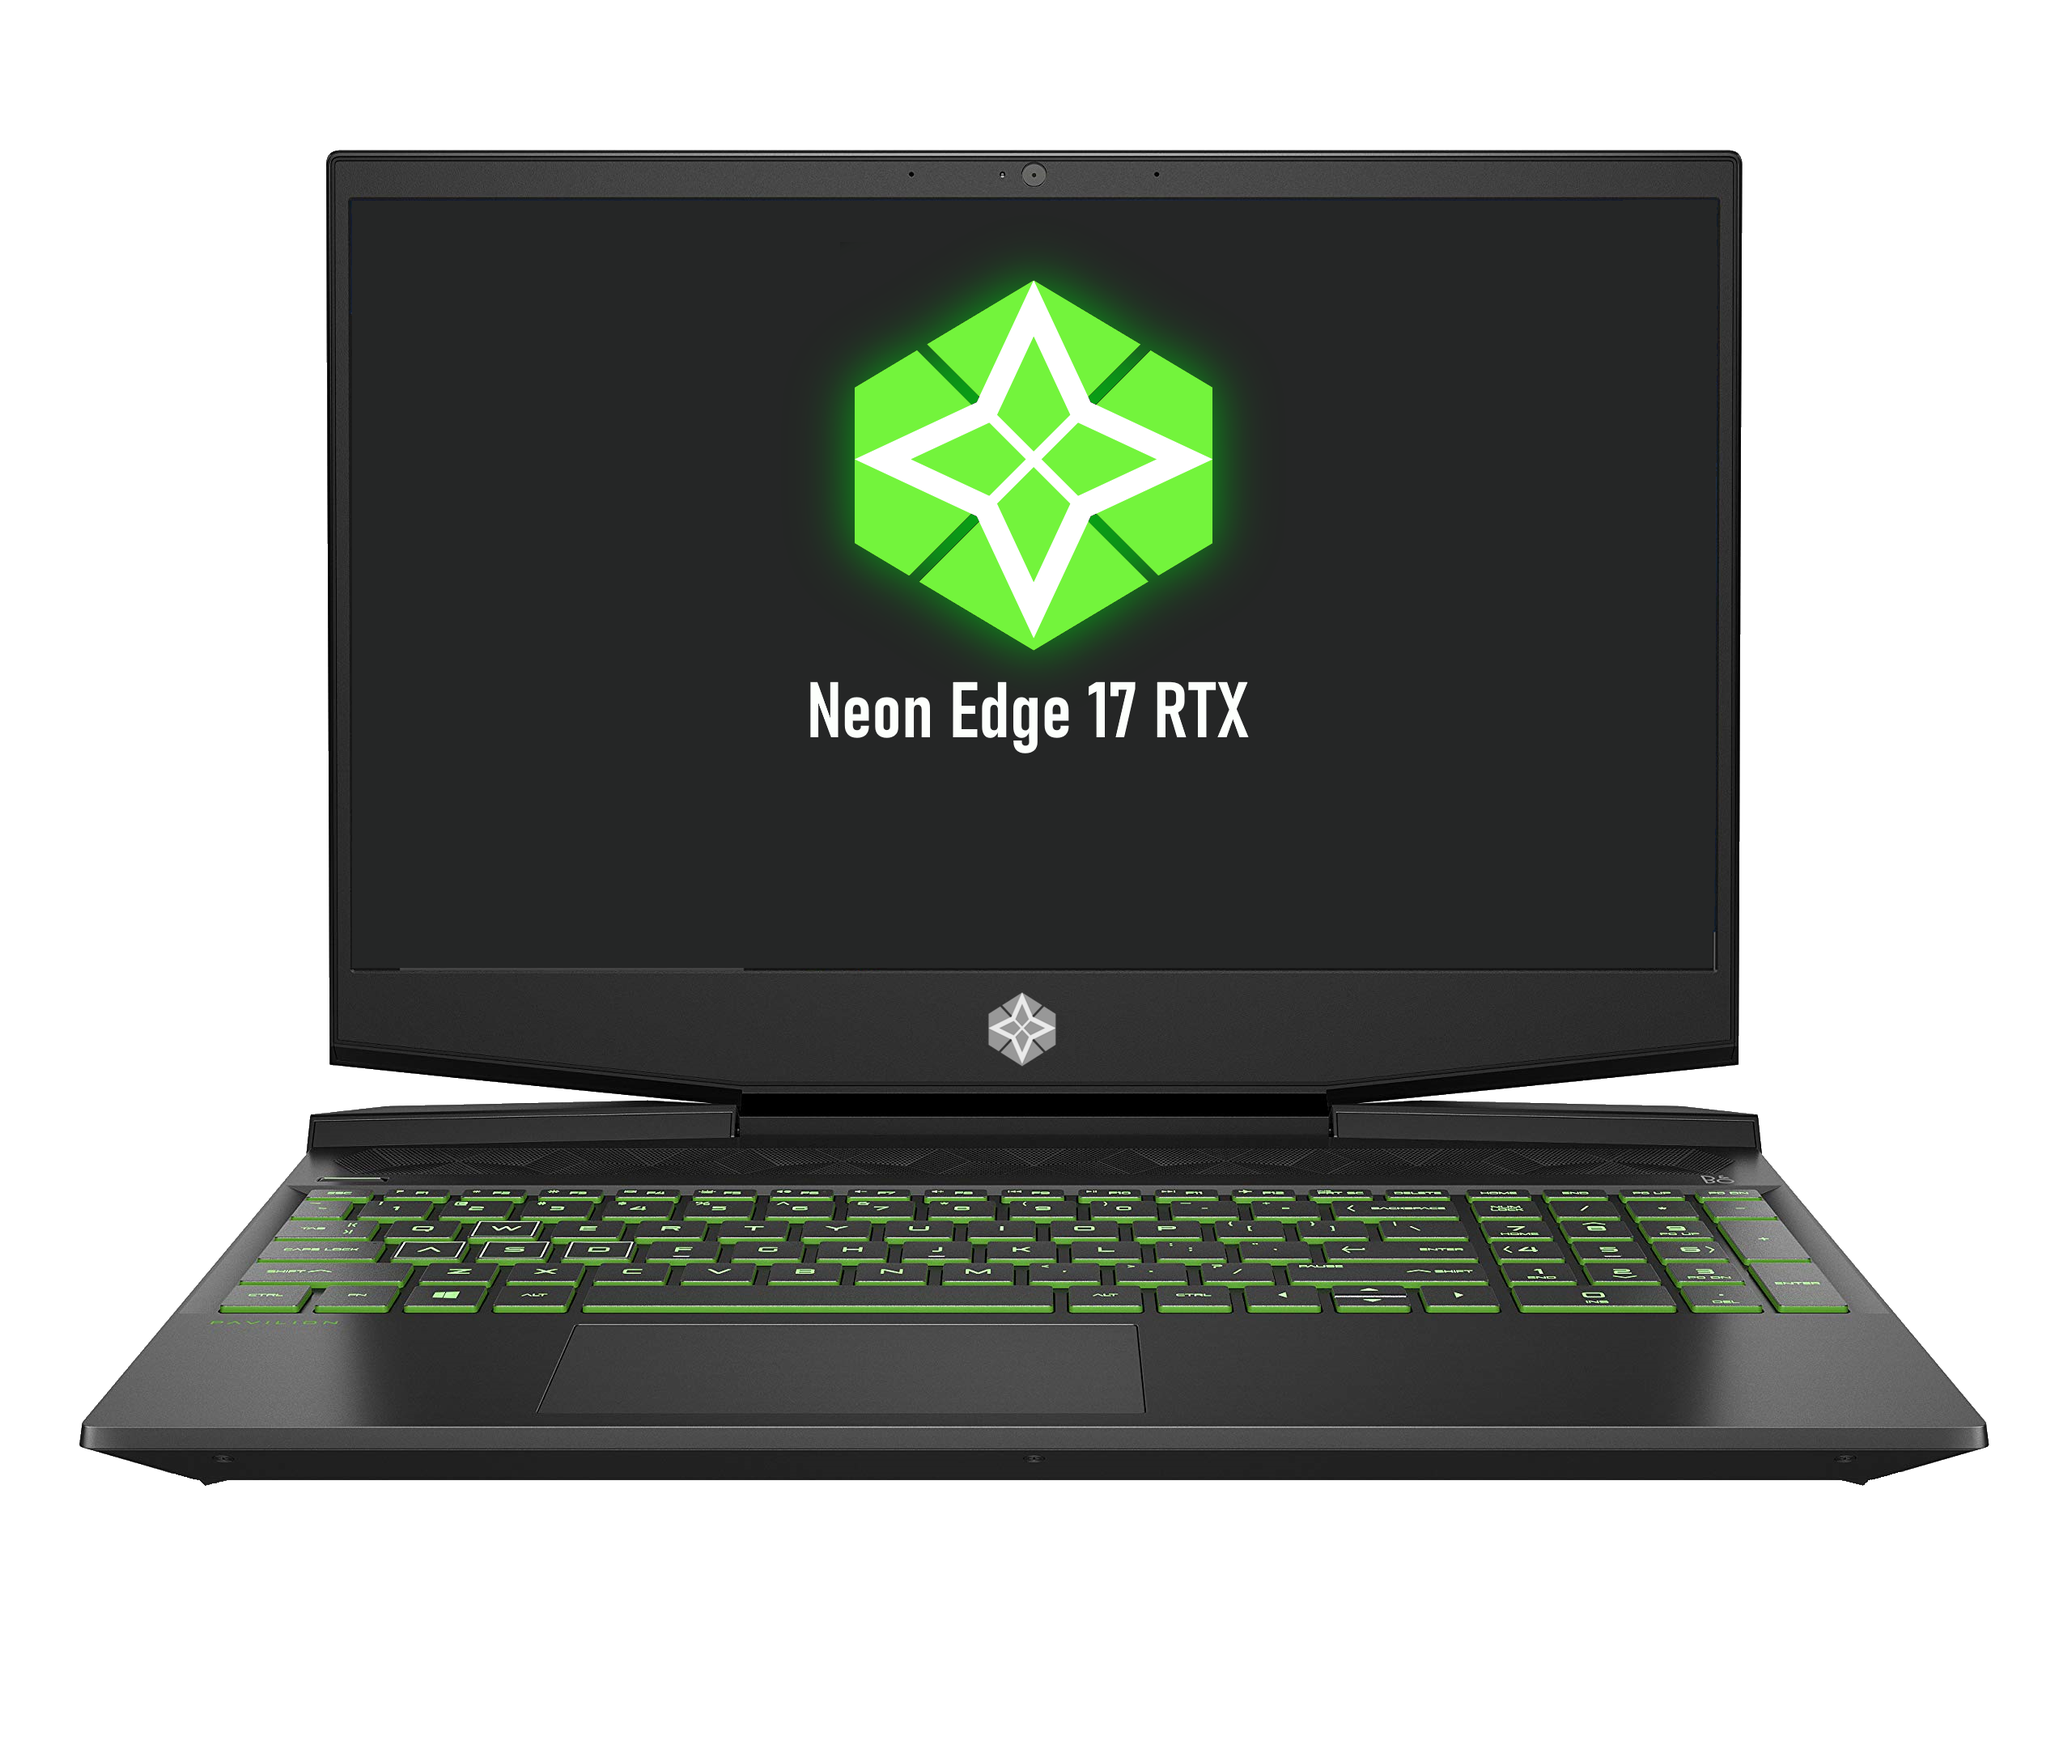
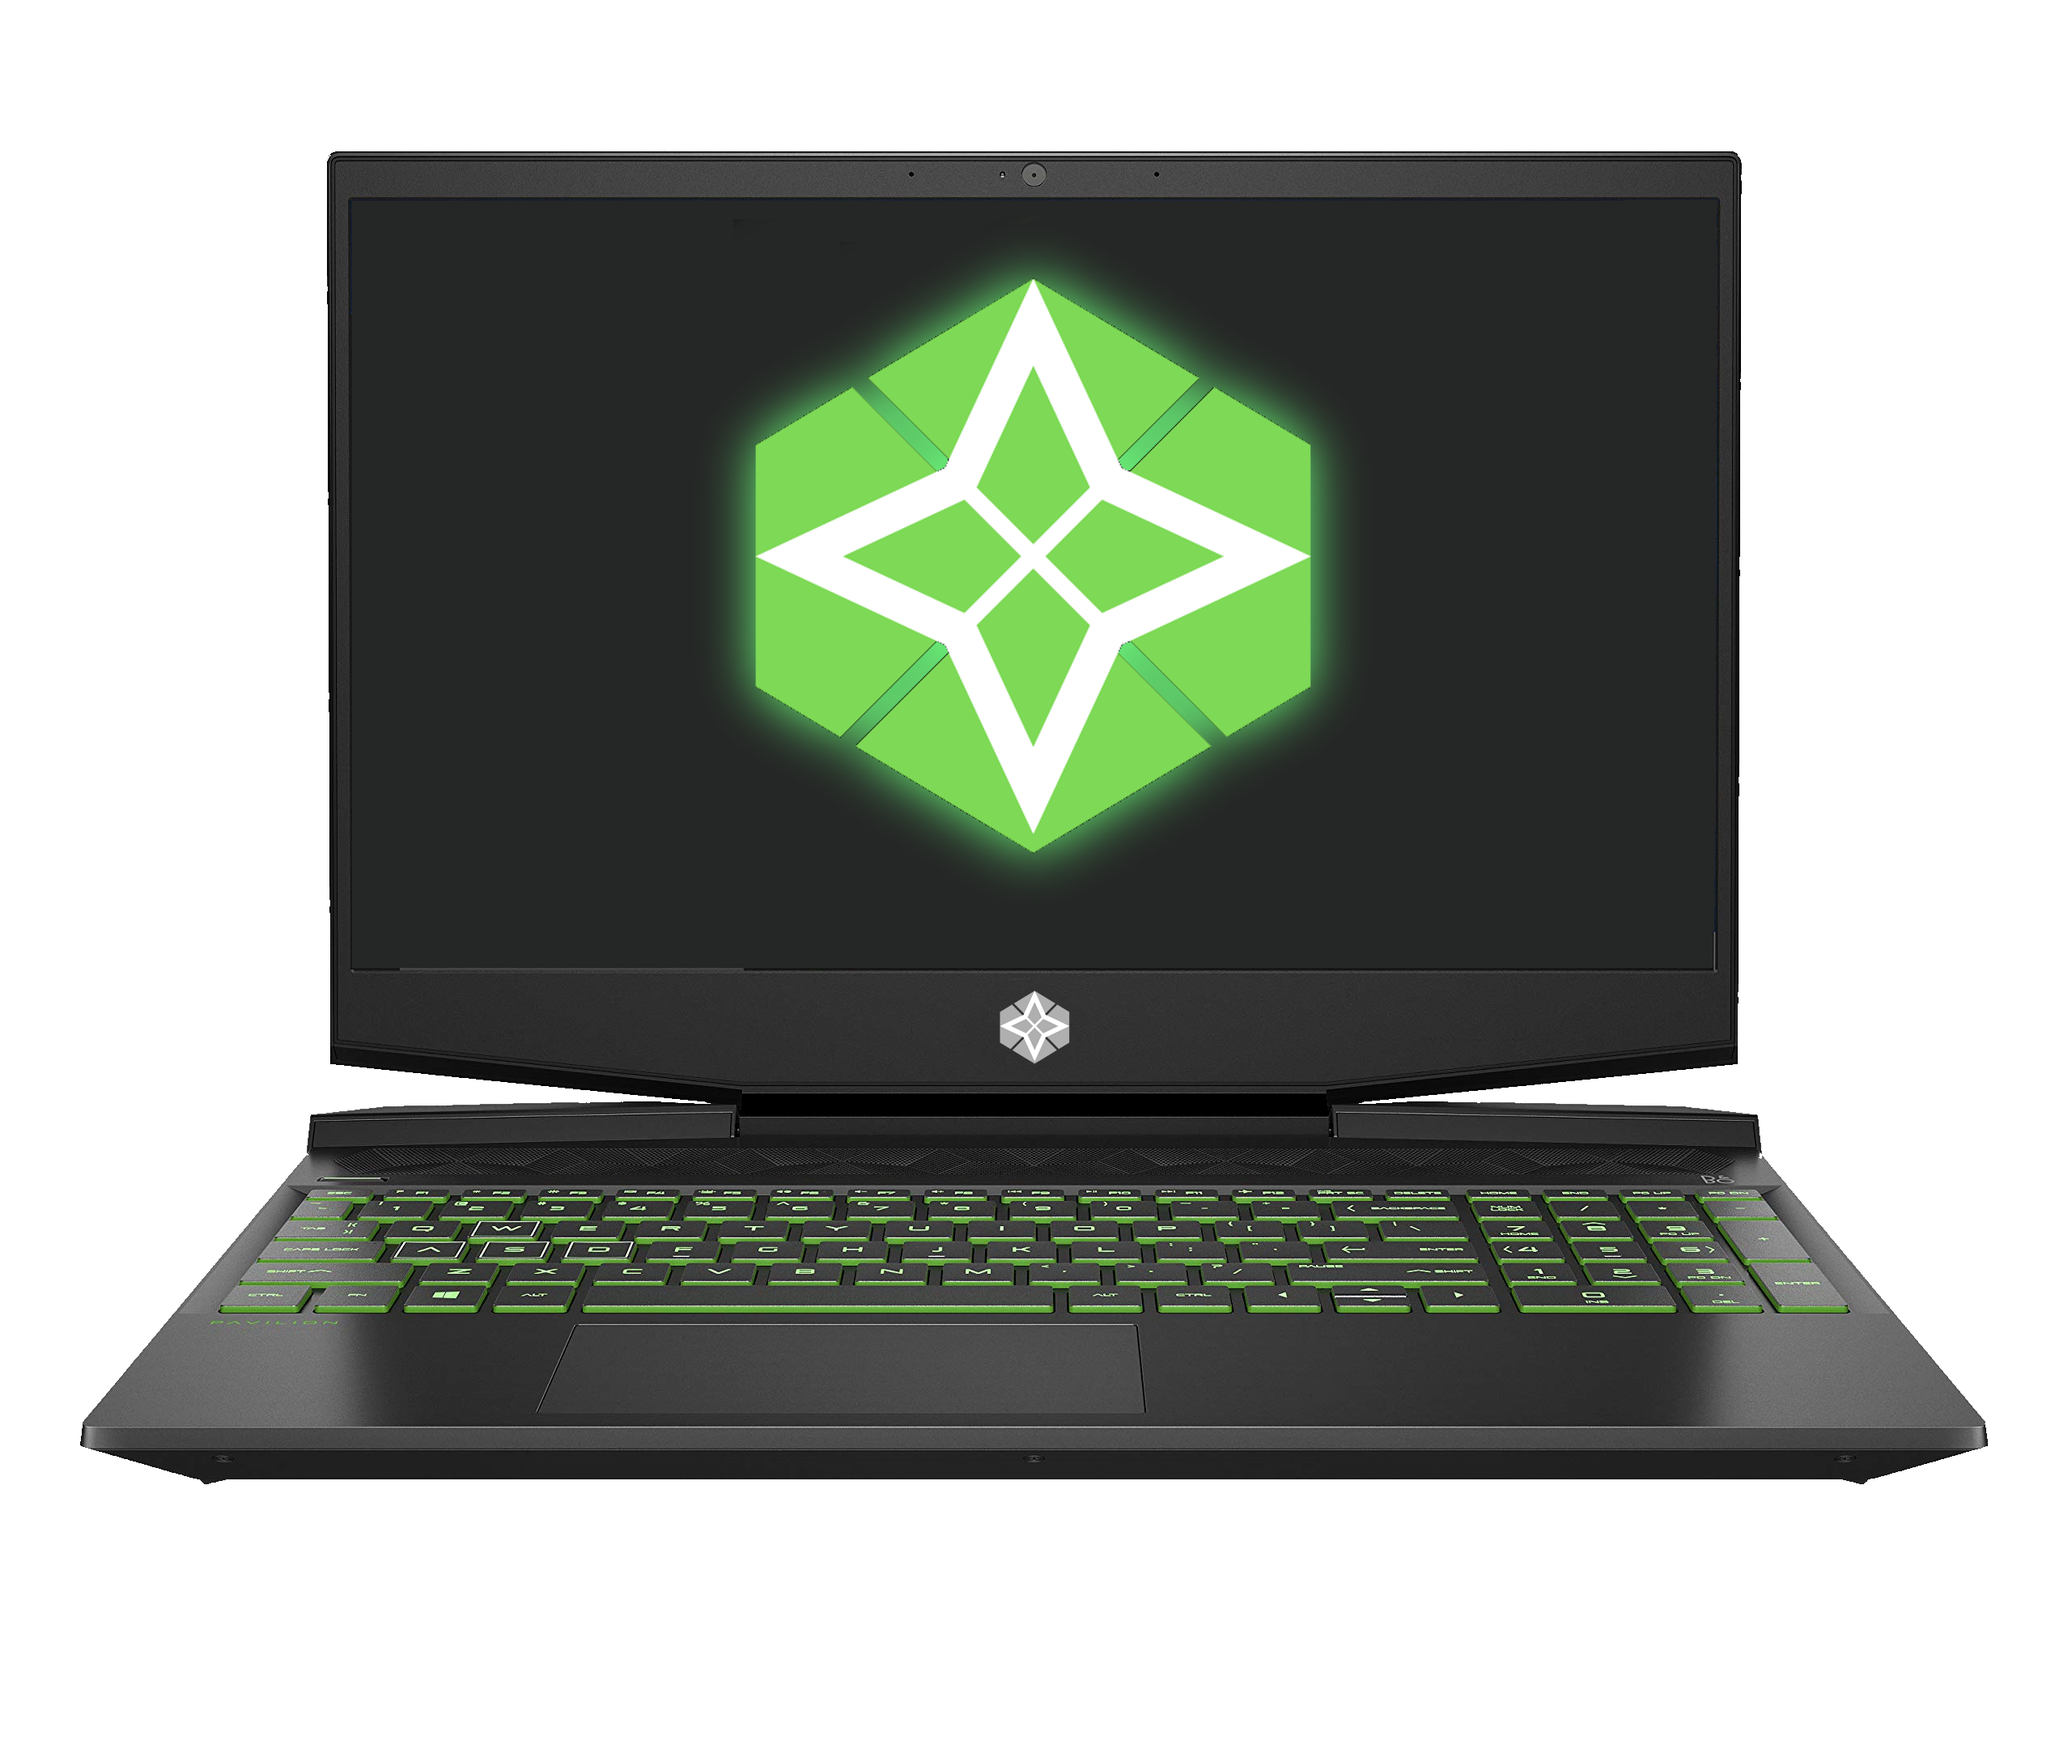
added the main product and added some animation to the navbar

Changed region(s): [[0.3438, 0.1562, 0.6562, 0.5], [0.4688, 0.5625, 0.5312, 0.625]]

diff --git a/style.css b/style.css
@@ -5,7 +5,20 @@ body{
 .navbardiv{
     display: flex;
     justify-content: center;
-    padding: 1% 0% 1% 0%;
+    padding: 1% 0%;
+    position: sticky;
+    top: 0;
+    z-index: 1000;
+
+}
+
+.cart{
+    width: 30px;
+    height: 30px;
+}
+
+.cart-div{
+    margin-right: 2%;
 }
 
 .navbarlist{
@@ -13,14 +26,33 @@ body{
     justify-content: space-evenly;
     width: 100%;
     padding: 0px;
-    margin: 0px;
+    margin: 0% 5%;
 }
 
 .navbarele{
     list-style-type: none;
+
+    a:hover{
+        font-size: 20px;
+        transition: 0.5s;
+    }
+
+    a{
+        text-decoration: none;
+        color: white;
+        transition: 0.5s;
+    }
+
 }
 
-a{
-    text-decoration: none;
-    color: white;
+
+
+.main-product{
+    background-image: url(assets/gaming-laptop.png);
+    background-repeat: no-repeat;
+    background-position: center;
+    background-size: contain;
+    display: flex;
+    justify-content: center;
+    height: 100vh;
 }

diff --git a/index.html b/index.html
@@ -9,12 +9,18 @@
 <body>
     <div class="navbardiv">
         <ul class="navbarlist">
-            <li class="navbarele"><a href="">Home</a></li>
+            <li class="navbarele"><a href="" style="text-decoration: underline;">Home</a></li>
             <li class="navbarele"><a href="">Products</a></li>
             <li class="navbarele"><a href="">About</a></li>
             <li class="navbarele"><a href="">Contact</a></li>
         </ul>
-        
+        <a href="" class="cart-div"><img src="assets/cart.png" class="cart"></a>
     </div>
+
+    <section class="main-product"></section>
+
+
+<br><br><br><br><br><br><br><br><br><br><br><br><br><br><br><br><br><br><br><br>
+
 </body>
 </html>
